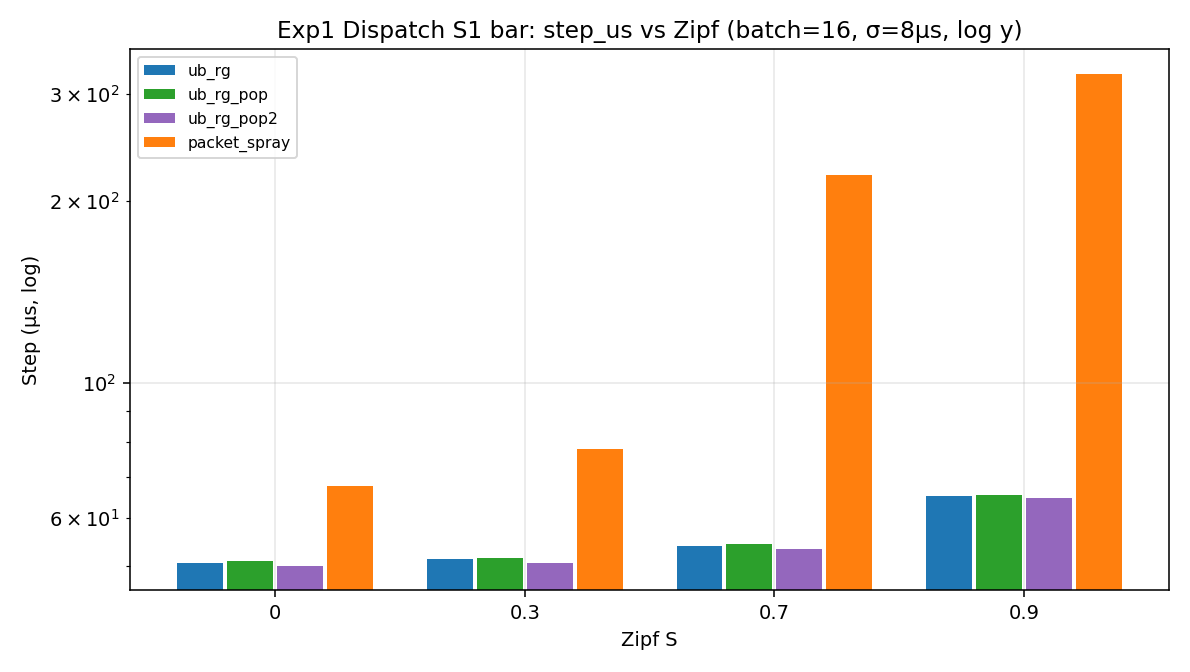
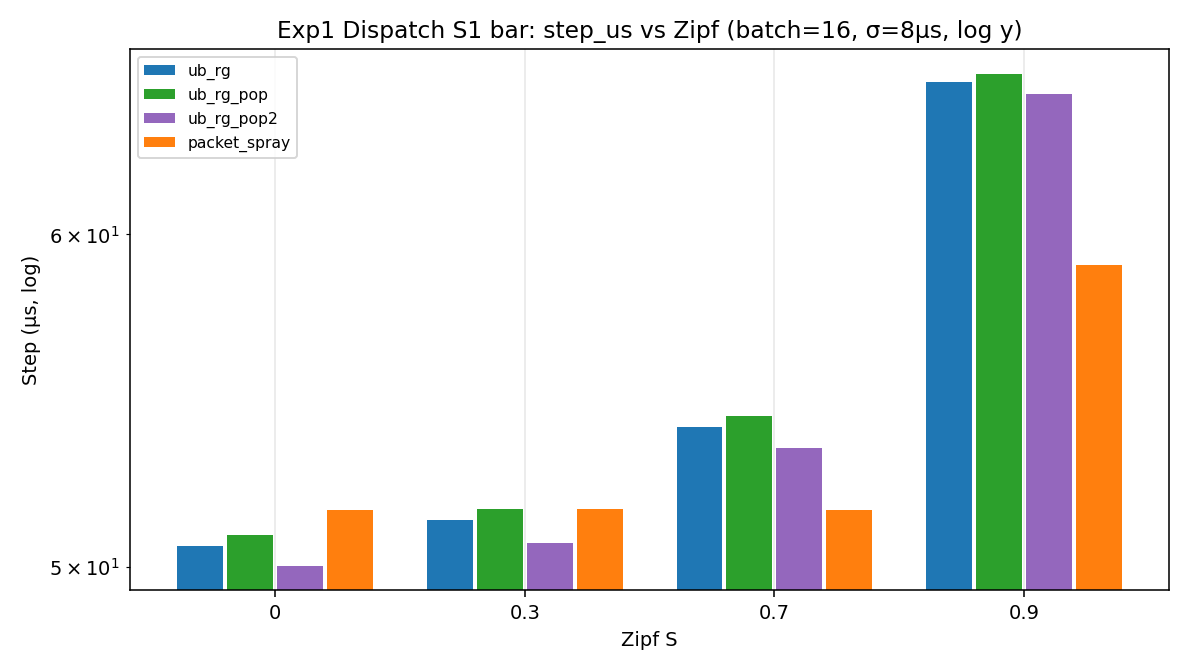
Update UB_RG documentation and results
- Added new log file patterns to .gitignore to prevent unnecessary log files from being tracked.
- Updated the ns-3-ub submodule to the latest commit for improved functionality.
- Revised performance metrics in documentation, including adjustments to output differences and successful run counts.

These changes enhance the clarity and accuracy of the UB_RG experiment documentation and ensure better management of generated files.

diff --git a/docs/UB_RG仿真报告.html b/docs/UB_RG仿真报告.html
@@ -4,9 +4,9 @@
 <h2>1. 主要实验结论</h2>
 <blockquote>结论适用于场景1/4；Exp1/2 为网络子系统；Exp3 含 Zipf×batch GEMV straggler；启动偏差为 N(0,σ²)，σ∈{0,2,4,8} µs。</blockquote>
 <ul>
-<li><strong>配置包输出差异</strong>（Exp1，按 batch 分列，不跨 batch 平均 step）：batch=16：POP/RG=<strong>1.010×</strong>，Spray/RG=<strong>2.594×</strong>；batch=256：POP/RG=<strong>1.001×</strong>，Spray/RG=<strong>14.150×</strong>，POP2/RG 平均为 <strong>0.990×</strong>。这是当前配置包的联合差异；plane、path delay、jitter 和 barrier 尚未统一，不能把比值单独归因于目的侧配速（见 §1.1）。</li>
-<li><strong>POP 启动开销会被负载摊薄</strong>：batch=16 时 POP/RG=<strong>1.010×</strong>，batch=256 时为 <strong>1.001×</strong>；结果符合“多一次 one-way 启动、稳态节拍与 RG 相同”的模型预期。</li>
-<li><strong>瓶颈下界</strong>：CCT/König 中位数为 ub_rg=2.615、ub_rg_pop=2.617、ub_rg_pop2=2.633、packet_spray=9.316；它证明输出符合当前方程，但不是排除混杂后的硬件性能验证。</li>
+<li><strong>配置包输出差异</strong>（Exp1，按 batch 分列，不跨 batch 平均 step）：batch=16：POP/RG=<strong>1.010×</strong>，Spray/RG=<strong>1.006×</strong>；batch=256：POP/RG=<strong>0.991×</strong>，Spray/RG=<strong>1.587×</strong>，POP2/RG 平均为 <strong>0.990×</strong>。这是当前配置包的联合差异；plane、path delay、jitter 和 barrier 尚未统一，不能把比值单独归因于目的侧配速（见 §1.1）。</li>
+<li><strong>POP 启动开销会被负载摊薄</strong>：batch=16 时 POP/RG=<strong>1.010×</strong>，batch=256 时为 <strong>0.991×</strong>；结果符合“多一次 one-way 启动、稳态节拍与 RG 相同”的模型预期。</li>
+<li><strong>瓶颈下界</strong>：CCT/König 中位数为 ub_rg=2.580、ub_rg_pop=2.617、ub_rg_pop2=2.633、packet_spray=8.800；它证明输出符合当前方程，但不是排除混杂后的硬件性能验证。</li>
 <li><strong>拓扑范围</strong>：主矩阵为场景1（Clos+iSLIP）与场景4（Sparse CLOS 512P）。</li>
 <li><strong>Exp3</strong>：端到端含 GEMV；<code>gemv_us</code> 随 Zipf 热点与 batch 变化。</li>
 <li>当前 UB_RG 配置包的 CCT 更接近自定义 König 下界；与 Spray 的比值是<strong>配置包联合差异</strong>，不是“仅改目的侧准入”的受控因果结论（原因见 §1.1）。</li>
@@ -166,7 +166,7 @@
 <tr><td>3 PDF</td><td>roundtrip</td><td>同上</td><td>16,64,128,256,512</td><td>同左</td><td>每格 96 seeds</td><td>σ=4µs</td><td>同左</td></tr>
 </tbody></table>
 <br/>
-<p>引擎：<strong>packet</strong>；成功汇总运行数：<strong>584</strong>。原始结果：<code>results/ub_rg_packet/</code>。</p>
+<p>引擎：<strong>packet</strong>；成功汇总运行数：<strong>610</strong>。原始结果：<code>results/ub_rg_packet/</code>。</p>
 <blockquote>上表对齐当前 runner：仅场景1+4；启动偏差为 N(0,σ²)（σ∈{0,2,4,8}）；场景1 含 iSLIP；Exp3 输出 gemv_us/e2e_us。旧场景2/3 结果请忽略。</blockquote>
 <blockquote>逐包引擎按风险路径裁剪且当前完整度不足；行为级引擎覆盖完整主矩阵与 PDF。本报告方案对比仅使用本引擎结果，不与行为级混比。实验3 系统 CCT PDF 若本引擎样本未齐，报告自动回退到行为级多 seed 结果。</blockquote>
 <h2>3. 实验1：倾斜专家流量下的 Dispatch</h2>
@@ -177,20 +177,20 @@
 <pre><code>             cct_us                                  hot_p99                                  lat_p99                                  step_us                             throughput_GBs
 scheme packet_spray  ub_rg ub_rg_pop ub_rg_pop2 packet_spray  ub_rg ub_rg_pop ub_rg_pop2 packet_spray  ub_rg ub_rg_pop ub_rg_pop2 packet_spray  ub_rg ub_rg_pop ub_rg_pop2   packet_spray    ub_rg ub_rg_pop ub_rg_pop2
 zipf_s
-0.0           42.99  25.89     26.19      25.26        30.96   4.86      5.16       5.06        30.70   4.83      5.13       4.96        44.99  26.29     26.59      25.66        3003.73  6386.99   6255.08    6781.90
-0.3           67.89  28.85     29.15      28.38        54.94   8.13      8.43       7.96        47.25   6.24      6.54       6.17        69.89  29.25     29.55      28.78        1740.17  4848.30   4781.47    4937.89
-0.7          212.12  46.13     46.43      45.78       180.77  24.37     24.67      23.87       156.70  21.92     22.22      21.23       214.12  46.53     46.83      46.18         554.36  2568.48   2551.60    2587.36
-0.9          468.99  59.80     60.10      59.47       339.36  32.81     33.11      32.01       290.85  30.95     31.25      30.23       470.99  60.20     60.50      59.87         262.67  1969.23   1959.35    1980.35
+0.0           25.03  25.89     26.19      25.26         6.41   4.86      5.16       5.06         6.34   4.83      5.13       4.96        27.03  26.29     26.59      25.66        7091.64  6386.99   6255.08    6781.90
+0.3           26.67  28.85     29.15      28.38         9.51   8.13      8.43       7.96         8.08   6.24      6.54       6.17        28.67  29.25     29.55      28.78        5574.26  4848.30   4781.47    4937.89
+0.7           40.72  46.13     46.43      45.78        30.14  24.37     24.67      23.87        27.03  21.92     22.22      21.23        42.72  46.53     46.83      46.18        2928.76  2568.48   2551.60    2587.36
+0.9           51.92  59.80     60.10      59.47        42.37  32.81     33.11      32.01        40.19  30.95     31.25      30.23        53.92  60.20     60.50      59.87        2270.26  1969.23   1959.35    1980.35
 </code></pre>
 <p><strong>batch=256 对比表</strong></p>
 <br/>
 <pre><code>             cct_us                                   hot_p99                                   lat_p99                                   step_us                              throughput_GBs
 scheme packet_spray   ub_rg ub_rg_pop ub_rg_pop2 packet_spray   ub_rg ub_rg_pop ub_rg_pop2 packet_spray   ub_rg ub_rg_pop ub_rg_pop2 packet_spray   ub_rg ub_rg_pop ub_rg_pop2   packet_spray     ub_rg ub_rg_pop ub_rg_pop2
 zipf_s
-0.0          417.63  162.97    163.27     162.52       381.13   67.14     67.44      68.40       351.07   56.69     56.99      55.97       419.63  163.37    163.67     162.92        4500.90  11552.86  11531.55   11649.34
-0.3         3801.59  250.14    250.44     249.40      2376.45  125.03    125.33     125.05       394.90   64.62     64.92      63.78      3803.59  250.54    250.84     249.80         494.49   7512.39   7503.39    7534.45
-0.7        15516.33  658.89    659.19     657.25      1189.91  201.68    201.98     200.97       787.32  115.72    116.02     114.38     15518.33  659.29    659.59     657.65         121.18   2851.92   2850.62    2858.97
-0.9        26977.15  948.63    948.93     934.67      1200.96  223.66    223.96     222.93      1439.62  217.89    218.19     218.20     26979.15  949.03    949.33     935.07          69.65   1981.96   1981.33    2011.89
+0.0          119.82  162.97    163.27     162.52       102.73   67.14     67.44      68.40        92.72   56.69     56.99      55.97       121.82  163.37    163.67     162.92       15825.54  11552.86  11531.55   11649.34
+0.3          244.88  250.14    250.44     249.40       218.58  125.03    125.33     125.05        96.12   64.62     64.92      63.78       246.88  250.54    250.84     249.80        7676.85   7512.39   7503.39    7534.45
+0.7         1487.17  658.89    659.19     657.25       217.81  201.68    201.98     200.97       144.35  115.72    116.02     114.38      1489.17  659.29    659.59     657.65        1291.17   2851.92   2850.62    2858.97
+0.9         2785.49  948.63    948.93     934.67       229.72  223.66    223.96     222.93       255.99  217.89    218.19     218.20      2787.49  949.03    949.33     935.07         694.04   1981.96   1981.33    2011.89
 </code></pre>
 <p><img alt='exp1_dispatch_s1_bar_step_vs_zipf_b16_nsk0.png' src='../results/ub_rg_packet/figures/exp1_dispatch_s1_bar_step_vs_zipf_b16_nsk0.png'></p>
 <p><img alt='exp1_dispatch_s1_bar_step_vs_zipf_b16_nsk2.png' src='../results/ub_rg_packet/figures/exp1_dispatch_s1_bar_step_vs_zipf_b16_nsk2.png'></p>
@@ -216,11 +216,11 @@ zipf_s
 </code></pre>
 <p><strong>batch=256 对比表</strong></p>
 <br/>
-<pre><code>             cct_us                         hot_p99                        lat_p99                       step_us                    throughput_GBs
-scheme packet_spray    ub_rg ub_rg_pop packet_spray   ub_rg ub_rg_pop packet_spray  ub_rg ub_rg_pop packet_spray    ub_rg ub_rg_pop   packet_spray     ub_rg ub_rg_pop
+<pre><code>             cct_us                         hot_p99                       lat_p99                       step_us                    throughput_GBs
+scheme packet_spray    ub_rg ub_rg_pop packet_spray  ub_rg ub_rg_pop packet_spray  ub_rg ub_rg_pop packet_spray    ub_rg ub_rg_pop   packet_spray     ub_rg ub_rg_pop
 zipf_s
-0.0          204.19   199.93    200.48       127.30  103.69    104.24       122.79  83.56     84.11       208.19   201.13    201.68       36809.26  37594.87  37491.73
-0.9        14230.92  9051.58       NaN       101.17   70.42       NaN        50.11  35.27       NaN     14234.92  9052.78       NaN         528.15    830.03       NaN
+0.0          209.45   210.58    200.48       124.12  99.38    104.24       111.33  77.83     84.11       213.45   211.78    201.68       35908.57  35784.57  37491.73
+0.9        14015.00  8325.16       NaN       101.53  66.47       NaN        45.97  31.41       NaN     14019.00  8326.36       NaN         536.42    909.28       NaN
 </code></pre>
 <p><img alt='exp1_dispatch_s4_bar_step_vs_zipf_b16_nsk0.png' src='../results/ub_rg_packet/figures/exp1_dispatch_s4_bar_step_vs_zipf_b16_nsk0.png'></p>
 <p><img alt='exp1_dispatch_s4_bar_step_vs_zipf_b16_nsk2.png' src='../results/ub_rg_packet/figures/exp1_dispatch_s4_bar_step_vs_zipf_b16_nsk2.png'></p>
@@ -281,10 +281,10 @@ zipf_s
 <p><strong>batch=256 对比表</strong></p>
 <br/>
 <pre><code>             cct_us               hot_p99              lat_p99             step_us          throughput_GBs
-scheme packet_spray    ub_rg packet_spray   ub_rg packet_spray  ub_rg packet_spray    ub_rg   packet_spray    ub_rg
+scheme packet_spray    ub_rg packet_spray   ub_rg packet_spray  ub_rg packet_spray    ub_rg   packet_spray     ub_rg
 zipf_s
-0.0          200.86   199.09       148.22  124.37        120.7  83.50       204.86   200.29        37419.5  37753.5
-0.9             NaN  7524.45          NaN  129.82          NaN  90.48          NaN  7525.65            NaN    998.9
+0.0          208.75   211.59       147.24  121.25       111.87  77.87       212.75   212.79       36057.59  35647.08
+0.9        13114.80  6527.96       154.43  111.83       167.43  81.69     13118.80  6529.16         572.76   1178.85
 </code></pre>
 <p><img alt='exp2_combine_s4_bar_step_vs_zipf_b16_nsk0.png' src='../results/ub_rg_packet/figures/exp2_combine_s4_bar_step_vs_zipf_b16_nsk0.png'></p>
 <p><img alt='exp2_combine_s4_bar_step_vs_zipf_b16_nsk2.png' src='../results/ub_rg_packet/figures/exp2_combine_s4_bar_step_vs_zipf_b16_nsk2.png'></p>
@@ -490,57 +490,58 @@ scenario ep_size zipf_s
 <p><img alt='exp3_pdf_compare_s0.png' src='../results/ub_rg/figures/exp3_pdf_compare_s0.png'></p>
 <h3>5.x Roundtrip Step vs EP（汇总）</h3>
 <p><img alt='exp3_s1_step_vs_ep.png' src='../results/ub_rg_packet/figures/exp3_s1_step_vs_ep.png'></p>
+<p><img alt='exp3_s4_step_vs_ep.png' src='../results/ub_rg_packet/figures/exp3_s4_step_vs_ep.png'></p>
 <h2>6. 方案对比摘要</h2>
 <blockquote>下列 step 均值均按 <strong>batch 分列</strong>，不跨 batch 平均。</blockquote>
 <ul>
-<li><strong>场景1 batch=16</strong> 平均 step（共有参数格）：UB_RG=40.6µs vs POP=40.9µs（POP/RG=1.01×） vs Spray=200.0µs（Spray/RG=4.93×）</li>
-<li><strong>场景1 batch=256</strong> 平均 step（共有参数格）：UB_RG=505.6µs vs POP=505.9µs（POP/RG=1.00×） vs Spray=11680.2µs（Spray/RG=23.10×）</li>
+<li><strong>场景1 batch=16</strong> 平均 step（共有参数格）：UB_RG=40.6µs vs POP=40.9µs（POP/RG=1.01×） vs Spray=38.1µs（Spray/RG=0.94×）</li>
+<li><strong>场景1 batch=256</strong> 平均 step（共有参数格）：UB_RG=505.6µs vs POP=505.9µs（POP/RG=1.00×） vs Spray=1161.3µs（Spray/RG=2.30×）</li>
 <li><strong>场景1 batch=16</strong> ub_rg CCT/König：mean=3.326，median=2.210</li>
 <li><strong>场景1 batch=16</strong> ub_rg_pop CCT/König：mean=3.357，median=2.232</li>
 <li><strong>场景1 batch=16</strong> ub_rg_pop2 CCT/König：mean=3.270，median=2.121</li>
-<li><strong>场景1 batch=16</strong> packet_spray CCT/König：mean=10.757，median=9.632</li>
+<li><strong>场景1 batch=16</strong> packet_spray CCT/König：mean=3.086，median=1.896</li>
 <li><strong>场景1 batch=256</strong> ub_rg CCT/König：mean=2.472，median=2.186</li>
 <li><strong>场景1 batch=256</strong> ub_rg_pop CCT/König：mean=2.475，median=2.188</li>
 <li><strong>场景1 batch=256</strong> ub_rg_pop2 CCT/König：mean=2.459，median=2.164</li>
-<li><strong>场景1 batch=256</strong> packet_spray CCT/König：mean=37.562，median=39.962</li>
+<li><strong>场景1 batch=256</strong> packet_spray CCT/König：mean=4.023，median=3.762</li>
 <li><strong>场景4 batch=16</strong> 平均 step（共有参数格）：UB_RG=80.4µs vs POP=81.0µs（POP/RG=1.01×） vs Spray=84.3µs（Spray/RG=1.05×）</li>
 <li><strong>场景4 batch=16</strong> ub_rg CCT/König：mean=0.513，median=0.235</li>
 <li><strong>场景4 batch=16</strong> ub_rg_pop CCT/König：mean=0.521，median=0.239</li>
 <li><strong>场景4 batch=16</strong> ub_rg_pop2 CCT/König：mean=0.503，median=0.235</li>
 <li><strong>场景4 batch=16</strong> packet_spray CCT/König：mean=0.507，median=0.242</li>
-<li><strong>场景4 batch=256</strong> ub_rg CCT/König：mean=0.706，median=0.706</li>
+<li><strong>场景4 batch=256</strong> ub_rg CCT/König：mean=0.692，median=0.678</li>
 <li><strong>场景4 batch=256</strong> ub_rg_pop CCT/König：mean=0.635，median=0.635</li>
-<li><strong>场景4 batch=256</strong> packet_spray CCT/König：mean=0.936，median=0.936</li>
+<li><strong>场景4 batch=256</strong> packet_spray CCT/König：mean=0.935，median=0.934</li>
 </ul>
 <h2>7. 双引擎对比（逐包 vs 行为级）</h2>
 <p>在相同 (scenario, scheme, mode, batch, zipf_s, ep_size) 键上对齐 step_us / lat_p99。</p>
-<p>对齐样本 <strong>2336</strong> 组；step 比值（packet/behavioral）均值=2.615，中位数=0.856。</p>
+<p>对齐样本 <strong>2440</strong> 组；step 比值（packet/behavioral）均值=1.840，中位数=0.878。</p>
 <pre><code>          exp  scenario       scheme     mode  batch  zipf_s  ep_size  step_packet  p99_packet  step_behav  p99_behav  step_ratio
-exp1_dispatch         1 packet_spray dispatch     16     0.3      128       63.439      49.862      11.855      7.131       5.351
-exp1_dispatch         1 packet_spray dispatch     16     0.3      128       63.439      49.862      20.058     14.955       3.163
-exp1_dispatch         1 packet_spray dispatch     16     0.3      128       63.439      49.862      28.936     25.646       2.192
-exp1_dispatch         1 packet_spray dispatch     16     0.3      128       63.439      49.862      51.752     48.319       1.226
-exp1_dispatch         1 packet_spray dispatch     16     0.3      128       67.491      49.567      11.855      7.131       5.693
-exp1_dispatch         1 packet_spray dispatch     16     0.3      128       67.491      49.567      20.058     14.955       3.365
-exp1_dispatch         1 packet_spray dispatch     16     0.3      128       67.491      49.567      28.936     25.646       2.332
-exp1_dispatch         1 packet_spray dispatch     16     0.3      128       67.491      49.567      51.752     48.319       1.304
-exp1_dispatch         1 packet_spray dispatch     16     0.3      128       70.714      47.183      11.855      7.131       5.965
-exp1_dispatch         1 packet_spray dispatch     16     0.3      128       70.714      47.183      20.058     14.955       3.525
-exp1_dispatch         1 packet_spray dispatch     16     0.3      128       70.714      47.183      28.936     25.646       2.444
-exp1_dispatch         1 packet_spray dispatch     16     0.3      128       70.714      47.183      51.752     48.319       1.366
-exp1_dispatch         1 packet_spray dispatch     16     0.3      128       77.924      42.393      11.855      7.131       6.573
-exp1_dispatch         1 packet_spray dispatch     16     0.3      128       77.924      42.393      20.058     14.955       3.885
-exp1_dispatch         1 packet_spray dispatch     16     0.3      128       77.924      42.393      28.936     25.646       2.693
-exp1_dispatch         1 packet_spray dispatch     16     0.3      128       77.924      42.393      51.752     48.319       1.506
-exp1_dispatch         1 packet_spray dispatch     16     0.7      128      222.284     177.540      24.901     19.030       8.927
-exp1_dispatch         1 packet_spray dispatch     16     0.7      128      222.284     177.540      31.957     26.270       6.956
-exp1_dispatch         1 packet_spray dispatch     16     0.7      128      222.284     177.540      40.384     34.656       5.504
-exp1_dispatch         1 packet_spray dispatch     16     0.7      128      222.284     177.540      58.591     51.716       3.794
+exp1_dispatch         1 packet_spray dispatch     16     0.3      128       15.987      11.645      11.855      7.131       1.349
+exp1_dispatch         1 packet_spray dispatch     16     0.3      128       15.987      11.645      20.058     14.955       0.797
+exp1_dispatch         1 packet_spray dispatch     16     0.3      128       15.987      11.645      28.936     25.646       0.552
+exp1_dispatch         1 packet_spray dispatch     16     0.3      128       15.987      11.645      51.752     48.319       0.309
+exp1_dispatch         1 packet_spray dispatch     16     0.3      128       18.500       9.330      11.855      7.131       1.561
+exp1_dispatch         1 packet_spray dispatch     16     0.3      128       18.500       9.330      20.058     14.955       0.922
+exp1_dispatch         1 packet_spray dispatch     16     0.3      128       18.500       9.330      28.936     25.646       0.639
+exp1_dispatch         1 packet_spray dispatch     16     0.3      128       18.500       9.330      51.752     48.319       0.357
+exp1_dispatch         1 packet_spray dispatch     16     0.3      128       28.599       6.151      11.855      7.131       2.412
+exp1_dispatch         1 packet_spray dispatch     16     0.3      128       28.599       6.151      20.058     14.955       1.426
+exp1_dispatch         1 packet_spray dispatch     16     0.3      128       28.599       6.151      28.936     25.646       0.988
+exp1_dispatch         1 packet_spray dispatch     16     0.3      128       28.599       6.151      51.752     48.319       0.553
+exp1_dispatch         1 packet_spray dispatch     16     0.3      128       51.599       5.176      11.855      7.131       4.352
+exp1_dispatch         1 packet_spray dispatch     16     0.3      128       51.599       5.176      20.058     14.955       2.572
+exp1_dispatch         1 packet_spray dispatch     16     0.3      128       51.599       5.176      28.936     25.646       1.783
+exp1_dispatch         1 packet_spray dispatch     16     0.3      128       51.599       5.176      51.752     48.319       0.997
+exp1_dispatch         1 packet_spray dispatch     16     0.7      128       37.825      34.035      24.901     19.030       1.519
+exp1_dispatch         1 packet_spray dispatch     16     0.7      128       37.825      34.035      31.957     26.270       1.184
+exp1_dispatch         1 packet_spray dispatch     16     0.7      128       37.825      34.035      40.384     34.656       0.937
+exp1_dispatch         1 packet_spray dispatch     16     0.7      128       37.825      34.035      58.591     51.716       0.646
 </code></pre>
 <p>若该比值显著偏离 1，不能仅解释为“逐包栈静态开销”。逐包引擎含真实CBFC/缓冲与控制面，行为级折叠了 byte buffer；两引擎 plane 映射也不一致。在统一输入、完成守恒和异常门禁通过前，这里是<strong>交叉验证对照</strong>，不是行为级绝对值校准。</p>
 <ul>
-<li><strong>packet</strong> batch=16 同参数格平均：POP/RG=1.009×，Spray/RG=2.276×</li>
-<li><strong>packet</strong> batch=256 同参数格平均：POP/RG=1.001×，Spray/RG=7.209×</li>
+<li><strong>packet</strong> batch=16 同参数格平均：POP/RG=1.009×，Spray/RG=1.482×</li>
+<li><strong>packet</strong> batch=256 同参数格平均：POP/RG=0.999×，Spray/RG=4.086×</li>
 <li><strong>behavioral</strong> batch=16 同参数格平均：POP/RG=1.002×，Spray/RG=0.858×</li>
 <li><strong>behavioral</strong> batch=64 同参数格平均：POP/RG=1.000×，Spray/RG=1.136×</li>
 <li><strong>behavioral</strong> batch=128 同参数格平均：POP/RG=1.000×，Spray/RG=1.144×</li>

diff --git a/docs/UB_RG仿真报告.md b/docs/UB_RG仿真报告.md
@@ -2,9 +2,9 @@
 > **可信性状态：实现证据存在，性能结论未验证。** 行为级结果仅作为网络机制假设；方案间路由、path delay、jitter 与 barrier 混杂尚未消除，逐包性能矩阵也未通过完成守恒与跨引擎校验。绝对硬件时延与完整POP硅片实现不得据此下结论；Exp3 GEMV 为标定服务模型。详见[UB_RG仿真可信性评估报告](./UB_RG仿真可信性评估报告.html)。
 ## 1. 主要实验结论
 > 结论适用于场景1/4；Exp1/2 为网络子系统；Exp3 含 Zipf×batch GEMV straggler；启动偏差为 N(0,σ²)，σ∈{0,2,4,8} µs。
-- **配置包输出差异**（Exp1，按 batch 分列，不跨 batch 平均 step）：batch=16：POP/RG=**1.010×**，Spray/RG=**2.594×**；batch=256：POP/RG=**1.001×**，Spray/RG=**14.150×**，POP2/RG 平均为 **0.990×**。这是当前配置包的联合差异；plane、path delay、jitter 和 barrier 尚未统一，不能把比值单独归因于目的侧配速（见 §1.1）。
-- **POP 启动开销会被负载摊薄**：batch=16 时 POP/RG=**1.010×**，batch=256 时为 **1.001×**；结果符合“多一次 one-way 启动、稳态节拍与 RG 相同”的模型预期。
-- **瓶颈下界**：CCT/König 中位数为 ub_rg=2.615、ub_rg_pop=2.617、ub_rg_pop2=2.633、packet_spray=9.316；它证明输出符合当前方程，但不是排除混杂后的硬件性能验证。
+- **配置包输出差异**（Exp1，按 batch 分列，不跨 batch 平均 step）：batch=16：POP/RG=**1.010×**，Spray/RG=**1.006×**；batch=256：POP/RG=**0.991×**，Spray/RG=**1.587×**，POP2/RG 平均为 **0.990×**。这是当前配置包的联合差异；plane、path delay、jitter 和 barrier 尚未统一，不能把比值单独归因于目的侧配速（见 §1.1）。
+- **POP 启动开销会被负载摊薄**：batch=16 时 POP/RG=**1.010×**，batch=256 时为 **0.991×**；结果符合“多一次 one-way 启动、稳态节拍与 RG 相同”的模型预期。
+- **瓶颈下界**：CCT/König 中位数为 ub_rg=2.580、ub_rg_pop=2.617、ub_rg_pop2=2.633、packet_spray=8.800；它证明输出符合当前方程，但不是排除混杂后的硬件性能验证。
 - **拓扑范围**：主矩阵为场景1（Clos+iSLIP）与场景4（Sparse CLOS 512P）。
 - **Exp3**：端到端含 GEMV；`gemv_us` 随 Zipf 热点与 batch 变化。
 - 当前 UB_RG 配置包的 CCT 更接近自定义 König 下界；与 Spray 的比值是**配置包联合差异**，不是“仅改目的侧准入”的受控因果结论（原因见 §1.1）。
@@ -139,7 +139,7 @@ CLI：`--scheme=ub_rg|ub_rg_pop|ub_rg_pop2|packet_spray|islip`；`--start-skew-u
 | 3 Roundtrip+GEMV | roundtrip | 1→{32,64,128}; 4→{128,256,512} | 256（S1 iSLIP 另含 128/512） | 同左 | 上列 | 同左 | 同左 |
 | 3 PDF | roundtrip | 同上 | 16,64,128,256,512 | 同左 | 每格 96 seeds | σ=4µs | 同左 |
 
-引擎：**packet**；成功汇总运行数：**584**。原始结果：`results/ub_rg_packet/`。
+引擎：**packet**；成功汇总运行数：**610**。原始结果：`results/ub_rg_packet/`。
 > 上表对齐当前 runner：仅场景1+4；启动偏差为 N(0,σ²)（σ∈{0,2,4,8}）；场景1 含 iSLIP；Exp3 输出 gemv_us/e2e_us。旧场景2/3 结果请忽略。
 > 逐包引擎按风险路径裁剪且当前完整度不足；行为级引擎覆盖完整主矩阵与 PDF。本报告方案对比仅使用本引擎结果，不与行为级混比。实验3 系统 CCT PDF 若本引擎样本未齐，报告自动回退到行为级多 seed 结果。
 ## 3. 实验1：倾斜专家流量下的 Dispatch
@@ -151,10 +151,10 @@ CLI：`--scheme=ub_rg|ub_rg_pop|ub_rg_pop2|packet_spray|islip`；`--start-skew-u
              cct_us                                  hot_p99                                  lat_p99                                  step_us                             throughput_GBs
 scheme packet_spray  ub_rg ub_rg_pop ub_rg_pop2 packet_spray  ub_rg ub_rg_pop ub_rg_pop2 packet_spray  ub_rg ub_rg_pop ub_rg_pop2 packet_spray  ub_rg ub_rg_pop ub_rg_pop2   packet_spray    ub_rg ub_rg_pop ub_rg_pop2
 zipf_s
-0.0           42.99  25.89     26.19      25.26        30.96   4.86      5.16       5.06        30.70   4.83      5.13       4.96        44.99  26.29     26.59      25.66        3003.73  6386.99   6255.08    6781.90
-0.3           67.89  28.85     29.15      28.38        54.94   8.13      8.43       7.96        47.25   6.24      6.54       6.17        69.89  29.25     29.55      28.78        1740.17  4848.30   4781.47    4937.89
-0.7          212.12  46.13     46.43      45.78       180.77  24.37     24.67      23.87       156.70  21.92     22.22      21.23       214.12  46.53     46.83      46.18         554.36  2568.48   2551.60    2587.36
-0.9          468.99  59.80     60.10      59.47       339.36  32.81     33.11      32.01       290.85  30.95     31.25      30.23       470.99  60.20     60.50      59.87         262.67  1969.23   1959.35    1980.35
+0.0           25.03  25.89     26.19      25.26         6.41   4.86      5.16       5.06         6.34   4.83      5.13       4.96        27.03  26.29     26.59      25.66        7091.64  6386.99   6255.08    6781.90
+0.3           26.67  28.85     29.15      28.38         9.51   8.13      8.43       7.96         8.08   6.24      6.54       6.17        28.67  29.25     29.55      28.78        5574.26  4848.30   4781.47    4937.89
+0.7           40.72  46.13     46.43      45.78        30.14  24.37     24.67      23.87        27.03  21.92     22.22      21.23        42.72  46.53     46.83      46.18        2928.76  2568.48   2551.60    2587.36
+0.9           51.92  59.80     60.10      59.47        42.37  32.81     33.11      32.01        40.19  30.95     31.25      30.23        53.92  60.20     60.50      59.87        2270.26  1969.23   1959.35    1980.35
 ```
 **batch=256 对比表**
 
@@ -162,10 +162,10 @@ zipf_s
              cct_us                                   hot_p99                                   lat_p99                                   step_us                              throughput_GBs
 scheme packet_spray   ub_rg ub_rg_pop ub_rg_pop2 packet_spray   ub_rg ub_rg_pop ub_rg_pop2 packet_spray   ub_rg ub_rg_pop ub_rg_pop2 packet_spray   ub_rg ub_rg_pop ub_rg_pop2   packet_spray     ub_rg ub_rg_pop ub_rg_pop2
 zipf_s
-0.0          417.63  162.97    163.27     162.52       381.13   67.14     67.44      68.40       351.07   56.69     56.99      55.97       419.63  163.37    163.67     162.92        4500.90  11552.86  11531.55   11649.34
-0.3         3801.59  250.14    250.44     249.40      2376.45  125.03    125.33     125.05       394.90   64.62     64.92      63.78      3803.59  250.54    250.84     249.80         494.49   7512.39   7503.39    7534.45
-0.7        15516.33  658.89    659.19     657.25      1189.91  201.68    201.98     200.97       787.32  115.72    116.02     114.38     15518.33  659.29    659.59     657.65         121.18   2851.92   2850.62    2858.97
-0.9        26977.15  948.63    948.93     934.67      1200.96  223.66    223.96     222.93      1439.62  217.89    218.19     218.20     26979.15  949.03    949.33     935.07          69.65   1981.96   1981.33    2011.89
+0.0          119.82  162.97    163.27     162.52       102.73   67.14     67.44      68.40        92.72   56.69     56.99      55.97       121.82  163.37    163.67     162.92       15825.54  11552.86  11531.55   11649.34
+0.3          244.88  250.14    250.44     249.40       218.58  125.03    125.33     125.05        96.12   64.62     64.92      63.78       246.88  250.54    250.84     249.80        7676.85   7512.39   7503.39    7534.45
+0.7         1487.17  658.89    659.19     657.25       217.81  201.68    201.98     200.97       144.35  115.72    116.02     114.38      1489.17  659.29    659.59     657.65        1291.17   2851.92   2850.62    2858.97
+0.9         2785.49  948.63    948.93     934.67       229.72  223.66    223.96     222.93       255.99  217.89    218.19     218.20      2787.49  949.03    949.33     935.07         694.04   1981.96   1981.33    2011.89
 ```
 ![exp1_dispatch_s1_bar_step_vs_zipf_b16_nsk0.png](../results/ub_rg_packet/figures/exp1_dispatch_s1_bar_step_vs_zipf_b16_nsk0.png)
 ![exp1_dispatch_s1_bar_step_vs_zipf_b16_nsk2.png](../results/ub_rg_packet/figures/exp1_dispatch_s1_bar_step_vs_zipf_b16_nsk2.png)
@@ -193,11 +193,11 @@ zipf_s
 **batch=256 对比表**
 
 ```
-             cct_us                         hot_p99                        lat_p99                       step_us                    throughput_GBs
-scheme packet_spray    ub_rg ub_rg_pop packet_spray   ub_rg ub_rg_pop packet_spray  ub_rg ub_rg_pop packet_spray    ub_rg ub_rg_pop   packet_spray     ub_rg ub_rg_pop
+             cct_us                         hot_p99                       lat_p99                       step_us                    throughput_GBs
+scheme packet_spray    ub_rg ub_rg_pop packet_spray  ub_rg ub_rg_pop packet_spray  ub_rg ub_rg_pop packet_spray    ub_rg ub_rg_pop   packet_spray     ub_rg ub_rg_pop
 zipf_s
-0.0          204.19   199.93    200.48       127.30  103.69    104.24       122.79  83.56     84.11       208.19   201.13    201.68       36809.26  37594.87  37491.73
-0.9        14230.92  9051.58       NaN       101.17   70.42       NaN        50.11  35.27       NaN     14234.92  9052.78       NaN         528.15    830.03       NaN
+0.0          209.45   210.58    200.48       124.12  99.38    104.24       111.33  77.83     84.11       213.45   211.78    201.68       35908.57  35784.57  37491.73
+0.9        14015.00  8325.16       NaN       101.53  66.47       NaN        45.97  31.41       NaN     14019.00  8326.36       NaN         536.42    909.28       NaN
 ```
 ![exp1_dispatch_s4_bar_step_vs_zipf_b16_nsk0.png](../results/ub_rg_packet/figures/exp1_dispatch_s4_bar_step_vs_zipf_b16_nsk0.png)
 ![exp1_dispatch_s4_bar_step_vs_zipf_b16_nsk2.png](../results/ub_rg_packet/figures/exp1_dispatch_s4_bar_step_vs_zipf_b16_nsk2.png)
@@ -262,10 +262,10 @@ zipf_s
 
 ```
              cct_us               hot_p99              lat_p99             step_us          throughput_GBs
-scheme packet_spray    ub_rg packet_spray   ub_rg packet_spray  ub_rg packet_spray    ub_rg   packet_spray    ub_rg
+scheme packet_spray    ub_rg packet_spray   ub_rg packet_spray  ub_rg packet_spray    ub_rg   packet_spray     ub_rg
 zipf_s
-0.0          200.86   199.09       148.22  124.37        120.7  83.50       204.86   200.29        37419.5  37753.5
-0.9             NaN  7524.45          NaN  129.82          NaN  90.48          NaN  7525.65            NaN    998.9
+0.0          208.75   211.59       147.24  121.25       111.87  77.87       212.75   212.79       36057.59  35647.08
+0.9        13114.80  6527.96       154.43  111.83       167.43  81.69     13118.80  6529.16         572.76   1178.85
 ```
 ![exp2_combine_s4_bar_step_vs_zipf_b16_nsk0.png](../results/ub_rg_packet/figures/exp2_combine_s4_bar_step_vs_zipf_b16_nsk0.png)
 ![exp2_combine_s4_bar_step_vs_zipf_b16_nsk2.png](../results/ub_rg_packet/figures/exp2_combine_s4_bar_step_vs_zipf_b16_nsk2.png)
@@ -474,55 +474,56 @@ scenario ep_size zipf_s
 ![exp3_pdf_compare_s0.png](../results/ub_rg/figures/exp3_pdf_compare_s0.png)
 ### 5.x Roundtrip Step vs EP（汇总）
 ![exp3_s1_step_vs_ep.png](../results/ub_rg_packet/figures/exp3_s1_step_vs_ep.png)
+![exp3_s4_step_vs_ep.png](../results/ub_rg_packet/figures/exp3_s4_step_vs_ep.png)
 ## 6. 方案对比摘要
 > 下列 step 均值均按 **batch 分列**，不跨 batch 平均。
-- **场景1 batch=16** 平均 step（共有参数格）：UB_RG=40.6µs vs POP=40.9µs（POP/RG=1.01×） vs Spray=200.0µs（Spray/RG=4.93×）
-- **场景1 batch=256** 平均 step（共有参数格）：UB_RG=505.6µs vs POP=505.9µs（POP/RG=1.00×） vs Spray=11680.2µs（Spray/RG=23.10×）
+- **场景1 batch=16** 平均 step（共有参数格）：UB_RG=40.6µs vs POP=40.9µs（POP/RG=1.01×） vs Spray=38.1µs（Spray/RG=0.94×）
+- **场景1 batch=256** 平均 step（共有参数格）：UB_RG=505.6µs vs POP=505.9µs（POP/RG=1.00×） vs Spray=1161.3µs（Spray/RG=2.30×）
 - **场景1 batch=16** ub_rg CCT/König：mean=3.326，median=2.210
 - **场景1 batch=16** ub_rg_pop CCT/König：mean=3.357，median=2.232
 - **场景1 batch=16** ub_rg_pop2 CCT/König：mean=3.270，median=2.121
-- **场景1 batch=16** packet_spray CCT/König：mean=10.757，median=9.632
+- **场景1 batch=16** packet_spray CCT/König：mean=3.086，median=1.896
 - **场景1 batch=256** ub_rg CCT/König：mean=2.472，median=2.186
 - **场景1 batch=256** ub_rg_pop CCT/König：mean=2.475，median=2.188
 - **场景1 batch=256** ub_rg_pop2 CCT/König：mean=2.459，median=2.164
-- **场景1 batch=256** packet_spray CCT/König：mean=37.562，median=39.962
+- **场景1 batch=256** packet_spray CCT/König：mean=4.023，median=3.762
 - **场景4 batch=16** 平均 step（共有参数格）：UB_RG=80.4µs vs POP=81.0µs（POP/RG=1.01×） vs Spray=84.3µs（Spray/RG=1.05×）
 - **场景4 batch=16** ub_rg CCT/König：mean=0.513，median=0.235
 - **场景4 batch=16** ub_rg_pop CCT/König：mean=0.521，median=0.239
 - **场景4 batch=16** ub_rg_pop2 CCT/König：mean=0.503，median=0.235
 - **场景4 batch=16** packet_spray CCT/König：mean=0.507，median=0.242
-- **场景4 batch=256** ub_rg CCT/König：mean=0.706，median=0.706
+- **场景4 batch=256** ub_rg CCT/König：mean=0.692，median=0.678
 - **场景4 batch=256** ub_rg_pop CCT/König：mean=0.635，median=0.635
-- **场景4 batch=256** packet_spray CCT/König：mean=0.936，median=0.936
+- **场景4 batch=256** packet_spray CCT/König：mean=0.935，median=0.934
 ## 7. 双引擎对比（逐包 vs 行为级）
 在相同 (scenario, scheme, mode, batch, zipf_s, ep_size) 键上对齐 step_us / lat_p99。
-对齐样本 **2336** 组；step 比值（packet/behavioral）均值=2.615，中位数=0.856。
+对齐样本 **2440** 组；step 比值（packet/behavioral）均值=1.840，中位数=0.878。
 ```
           exp  scenario       scheme     mode  batch  zipf_s  ep_size  step_packet  p99_packet  step_behav  p99_behav  step_ratio
-exp1_dispatch         1 packet_spray dispatch     16     0.3      128       63.439      49.862      11.855      7.131       5.351
-exp1_dispatch         1 packet_spray dispatch     16     0.3      128       63.439      49.862      20.058     14.955       3.163
-exp1_dispatch         1 packet_spray dispatch     16     0.3      128       63.439      49.862      28.936     25.646       2.192
-exp1_dispatch         1 packet_spray dispatch     16     0.3      128       63.439      49.862      51.752     48.319       1.226
-exp1_dispatch         1 packet_spray dispatch     16     0.3      128       67.491      49.567      11.855      7.131       5.693
-exp1_dispatch         1 packet_spray dispatch     16     0.3      128       67.491      49.567      20.058     14.955       3.365
-exp1_dispatch         1 packet_spray dispatch     16     0.3      128       67.491      49.567      28.936     25.646       2.332
-exp1_dispatch         1 packet_spray dispatch     16     0.3      128       67.491      49.567      51.752     48.319       1.304
-exp1_dispatch         1 packet_spray dispatch     16     0.3      128       70.714      47.183      11.855      7.131       5.965
-exp1_dispatch         1 packet_spray dispatch     16     0.3      128       70.714      47.183      20.058     14.955       3.525
-exp1_dispatch         1 packet_spray dispatch     16     0.3      128       70.714      47.183      28.936     25.646       2.444
-exp1_dispatch         1 packet_spray dispatch     16     0.3      128       70.714      47.183      51.752     48.319       1.366
-exp1_dispatch         1 packet_spray dispatch     16     0.3      128       77.924      42.393      11.855      7.131       6.573
-exp1_dispatch         1 packet_spray dispatch     16     0.3      128       77.924      42.393      20.058     14.955       3.885
-exp1_dispatch         1 packet_spray dispatch     16     0.3      128       77.924      42.393      28.936     25.646       2.693
-exp1_dispatch         1 packet_spray dispatch     16     0.3      128       77.924      42.393      51.752     48.319       1.506
-exp1_dispatch         1 packet_spray dispatch     16     0.7      128      222.284     177.540      24.901     19.030       8.927
-exp1_dispatch         1 packet_spray dispatch     16     0.7      128      222.284     177.540      31.957     26.270       6.956
-exp1_dispatch         1 packet_spray dispatch     16     0.7      128      222.284     177.540      40.384     34.656       5.504
-exp1_dispatch         1 packet_spray dispatch     16     0.7      128      222.284     177.540      58.591     51.716       3.794
+exp1_dispatch         1 packet_spray dispatch     16     0.3      128       15.987      11.645      11.855      7.131       1.349
+exp1_dispatch         1 packet_spray dispatch     16     0.3      128       15.987      11.645      20.058     14.955       0.797
+exp1_dispatch         1 packet_spray dispatch     16     0.3      128       15.987      11.645      28.936     25.646       0.552
+exp1_dispatch         1 packet_spray dispatch     16     0.3      128       15.987      11.645      51.752     48.319       0.309
+exp1_dispatch         1 packet_spray dispatch     16     0.3      128       18.500       9.330      11.855      7.131       1.561
+exp1_dispatch         1 packet_spray dispatch     16     0.3      128       18.500       9.330      20.058     14.955       0.922
+exp1_dispatch         1 packet_spray dispatch     16     0.3      128       18.500       9.330      28.936     25.646       0.639
+exp1_dispatch         1 packet_spray dispatch     16     0.3      128       18.500       9.330      51.752     48.319       0.357
+exp1_dispatch         1 packet_spray dispatch     16     0.3      128       28.599       6.151      11.855      7.131       2.412
+exp1_dispatch         1 packet_spray dispatch     16     0.3      128       28.599       6.151      20.058     14.955       1.426
+exp1_dispatch         1 packet_spray dispatch     16     0.3      128       28.599       6.151      28.936     25.646       0.988
+exp1_dispatch         1 packet_spray dispatch     16     0.3      128       28.599       6.151      51.752     48.319       0.553
+exp1_dispatch         1 packet_spray dispatch     16     0.3      128       51.599       5.176      11.855      7.131       4.352
+exp1_dispatch         1 packet_spray dispatch     16     0.3      128       51.599       5.176      20.058     14.955       2.572
+exp1_dispatch         1 packet_spray dispatch     16     0.3      128       51.599       5.176      28.936     25.646       1.783
+exp1_dispatch         1 packet_spray dispatch     16     0.3      128       51.599       5.176      51.752     48.319       0.997
+exp1_dispatch         1 packet_spray dispatch     16     0.7      128       37.825      34.035      24.901     19.030       1.519
+exp1_dispatch         1 packet_spray dispatch     16     0.7      128       37.825      34.035      31.957     26.270       1.184
+exp1_dispatch         1 packet_spray dispatch     16     0.7      128       37.825      34.035      40.384     34.656       0.937
+exp1_dispatch         1 packet_spray dispatch     16     0.7      128       37.825      34.035      58.591     51.716       0.646
 ```
 若该比值显著偏离 1，不能仅解释为“逐包栈静态开销”。逐包引擎含真实CBFC/缓冲与控制面，行为级折叠了 byte buffer；两引擎 plane 映射也不一致。在统一输入、完成守恒和异常门禁通过前，这里是**交叉验证对照**，不是行为级绝对值校准。
-- **packet** batch=16 同参数格平均：POP/RG=1.009×，Spray/RG=2.276×
-- **packet** batch=256 同参数格平均：POP/RG=1.001×，Spray/RG=7.209×
+- **packet** batch=16 同参数格平均：POP/RG=1.009×，Spray/RG=1.482×
+- **packet** batch=256 同参数格平均：POP/RG=0.999×，Spray/RG=4.086×
 - **behavioral** batch=16 同参数格平均：POP/RG=1.002×，Spray/RG=0.858×
 - **behavioral** batch=64 同参数格平均：POP/RG=1.000×，Spray/RG=1.136×
 - **behavioral** batch=128 同参数格平均：POP/RG=1.000×，Spray/RG=1.144×
